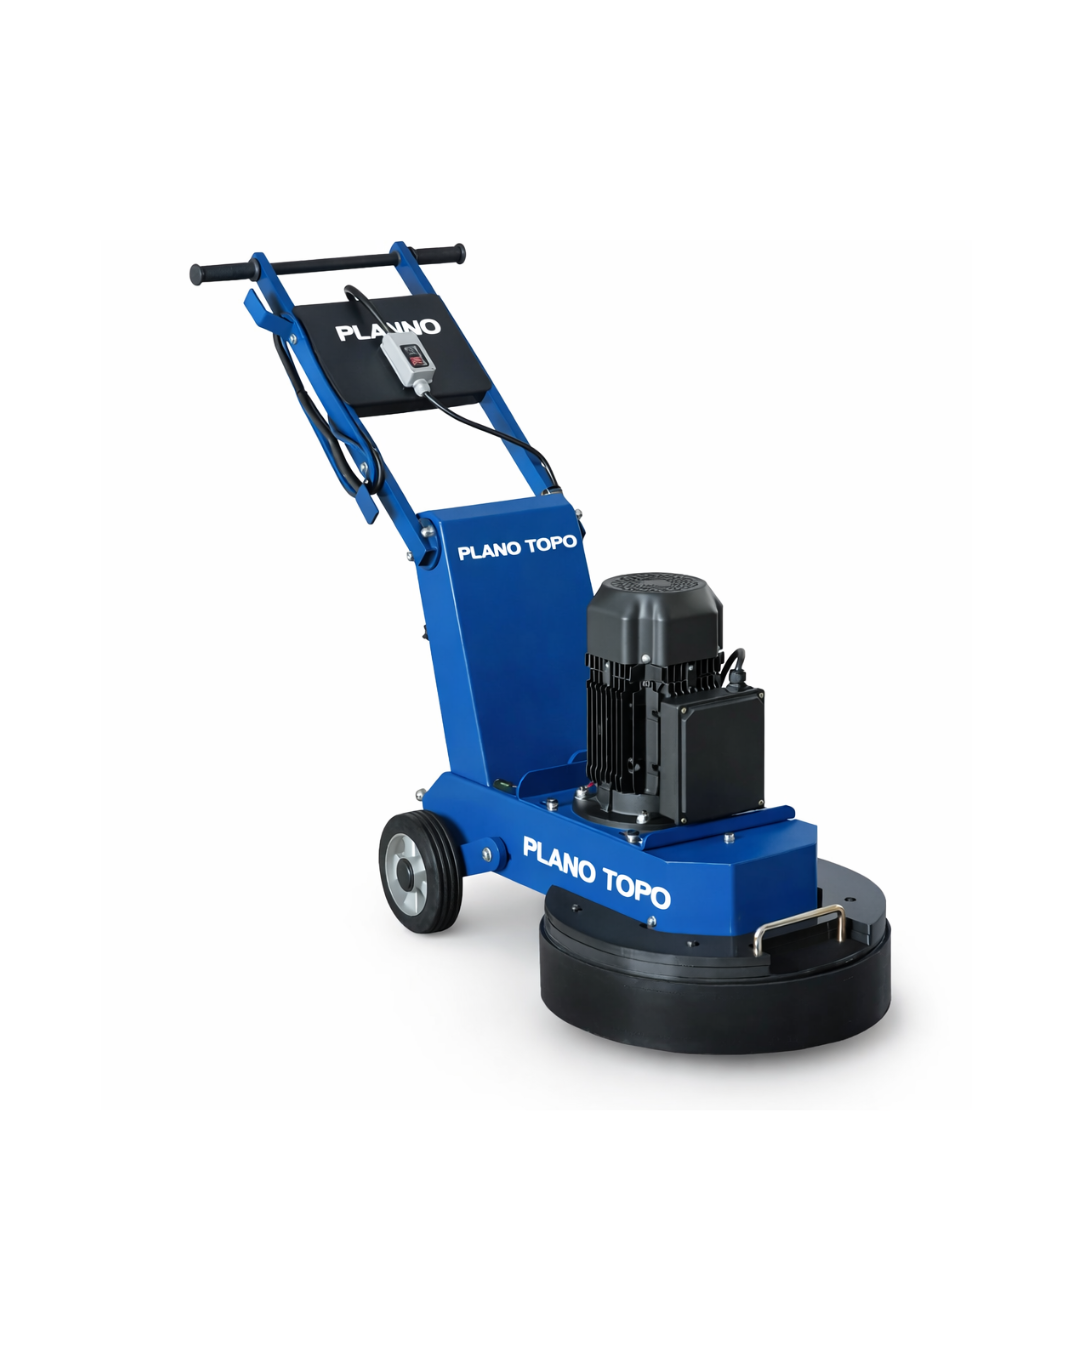
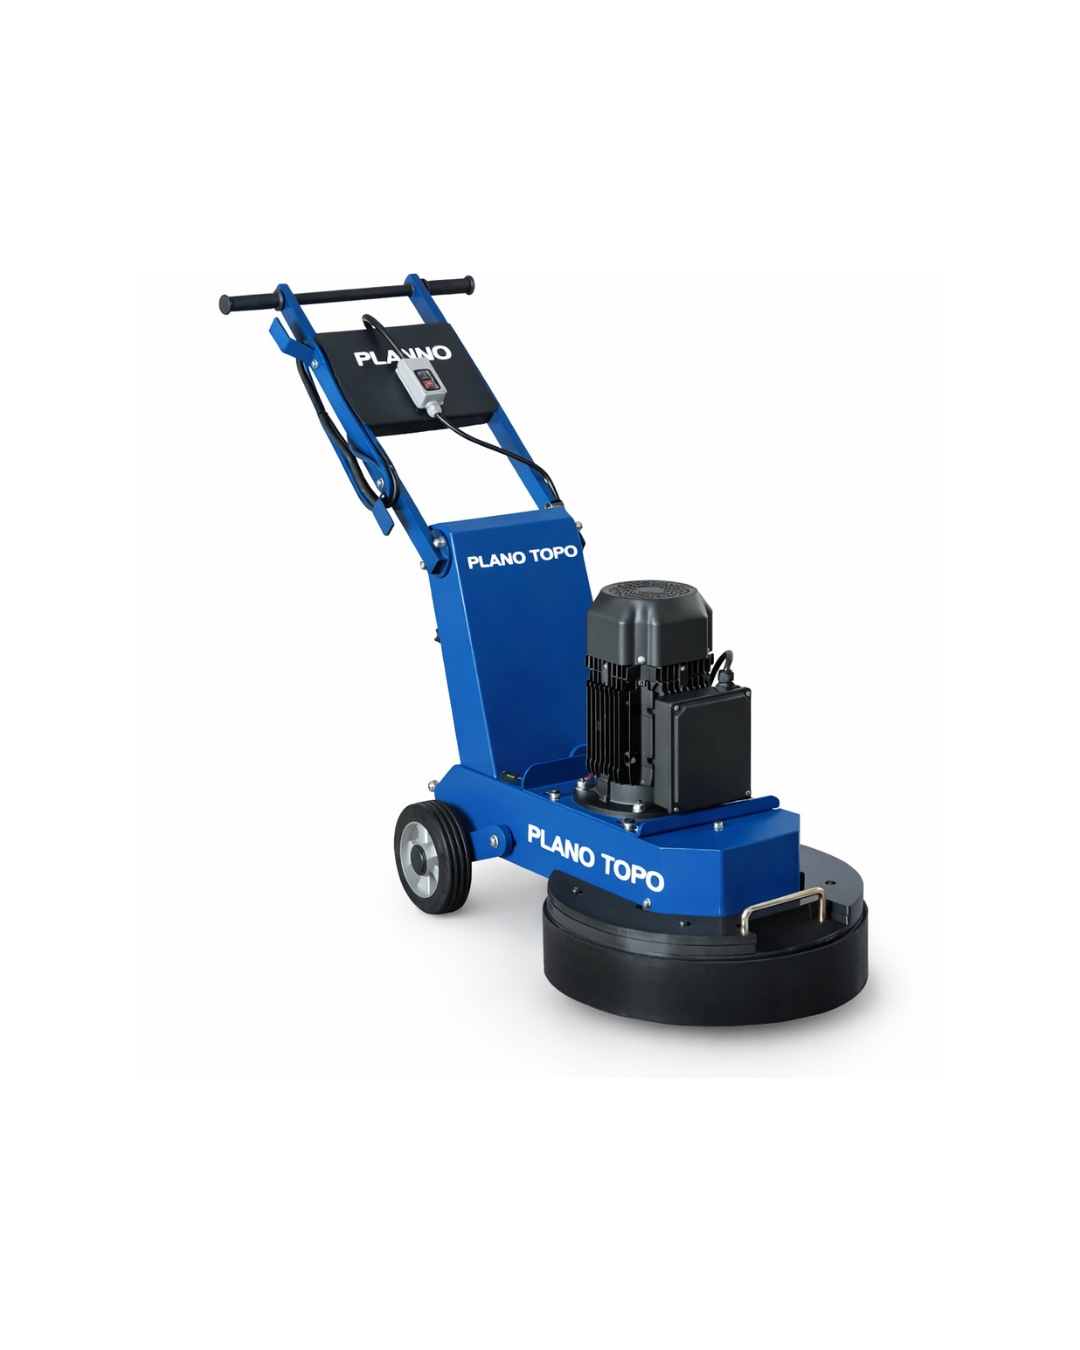
Adicionado icone

Changed region(s): [[0.1528, 0.1556, 0.8556, 0.8089]]

diff --git a/index.html b/index.html
@@ -4,9 +4,10 @@
 <head>
     <meta charset="UTF-8" />
     <meta name="viewport" content="width=device-width, initial-scale=1.0" />
-    <title>Header Marketplace</title>
+    <title>Planotopo | locações</title>
     <script src="https://cdn.tailwindcss.com"></script>
     <link rel="stylesheet" href="style.css">
+    <link rel="icon" href="assets/icon-plano-topo.jpg">
 </head>
 
 <body class="bg-gray-100">